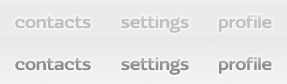
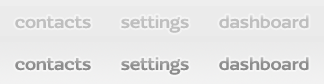
changed all nav-profile references to nav-dashboard, updated nav-matrix.png, removed width on main navigation UL so the nav items will align properly if any are removed/added.

diff --git a/styles/main.css b/styles/main.css
@@ -2,7 +2,7 @@
 -----------------------------------------------
 styles for armchairrevolutionary.com
 author: dan rubin
-edited: 2008-08-21
+edited: 2008-10-20
 ----------------------------------------------- */
 
 /* import reset, 960.gs and specific stylesheets */
@@ -88,9 +88,9 @@ img {
 	right:0;
 	bottom:0;
 	margin:0;
-	width:305px; /* when adding new languages, this width must be adjusted to match the total of the anchor widths plus 3x left margin on the li's */
 	list-style:none;
 }
+/* the li's and anchors must be floated left in order to maintain the proper item order */
 #user-nav li {
 	float:left;
 	margin:0 0 0 6px;
@@ -118,12 +118,12 @@ img {
 #user-nav li#nav-settings.current a {
 	background-position:-106px -42px;
 }
-#user-nav li#nav-profile a {
-	width:83px;
+#user-nav li#nav-dashboard a {
+	width:120px;
 	background-position:-204px 0;
 }
-#user-nav li#nav-profile a:hover,
-#user-nav li#nav-profile.current a {
+#user-nav li#nav-dashboard a:hover,
+#user-nav li#nav-dashboard.current a {
 	background-position:-204px -42px;
 }
 

diff --git a/default.html b/default.html
@@ -38,7 +38,7 @@
 			<ul id="user-nav">
 				<li id="nav-contacts"><a href="">Contacts</a></li>
 				<li id="nav-settings"><a href="">Settings</a></li>
-				<li id="nav-profile" class="current"><a href="">Profile</a></li>
+				<li id="nav-dashboard" class="current"><a href="">Profile</a></li>
 			</ul>
 		</div><!-- #header -->
 		

diff --git a/profile-expandedtask.html b/profile-expandedtask.html
@@ -38,7 +38,7 @@
 			<ul id="user-nav">
 				<li id="nav-contacts"><a href="">Contacts</a></li>
 				<li id="nav-settings"><a href="">Settings</a></li>
-				<li id="nav-profile" class="current"><a href="">Profile</a></li>
+				<li id="nav-dashboard" class="current"><a href="">Profile</a></li>
 			</ul>
 		</div><!-- #header -->
 		

diff --git a/profile.html b/profile.html
@@ -38,7 +38,7 @@
 			<ul id="user-nav">
 				<li id="nav-contacts"><a href="">Contacts</a></li>
 				<li id="nav-settings"><a href="">Settings</a></li>
-				<li id="nav-profile" class="current"><a href="">Profile</a></li>
+				<li id="nav-dashboard" class="current"><a href="">Profile</a></li>
 			</ul>
 		</div><!-- #header -->
 		

diff --git a/contacts-grid.html b/contacts-grid.html
@@ -38,7 +38,7 @@
 			<ul id="user-nav">
 				<li id="nav-contacts"><a href="">Contacts</a></li>
 				<li id="nav-settings"><a href="">Settings</a></li>
-				<li id="nav-profile"><a href="">Profile</a></li>
+				<li id="nav-dashboard"><a href="">Profile</a></li>
 			</ul>
 		</div><!-- #header -->
 		

diff --git a/contacts-list.html b/contacts-list.html
@@ -38,7 +38,7 @@
 			<ul id="user-nav">
 				<li id="nav-contacts"><a href="">Contacts</a></li>
 				<li id="nav-settings"><a href="">Settings</a></li>
-				<li id="nav-profile"><a href="">Profile</a></li>
+				<li id="nav-dashboard"><a href="">Profile</a></li>
 			</ul>
 		</div><!-- #header -->
 		

diff --git a/generic.html b/generic.html
@@ -38,7 +38,7 @@
 			<ul id="user-nav">
 				<li id="nav-contacts"><a href="">Contacts</a></li>
 				<li id="nav-settings"><a href="">Settings</a></li>
-				<li id="nav-profile"><a href="">Profile</a></li>
+				<li id="nav-dashboard"><a href="">Profile</a></li>
 			</ul>
 		</div><!-- #header -->
 		

diff --git a/project-detail.html b/project-detail.html
@@ -38,7 +38,7 @@
 			<ul id="user-nav">
 				<li id="nav-contacts"><a href="">Contacts</a></li>
 				<li id="nav-settings"><a href="">Settings</a></li>
-				<li id="nav-profile"><a href="">Profile</a></li>
+				<li id="nav-dashboard"><a href="">Profile</a></li>
 			</ul>
 		</div><!-- #header -->
 		
